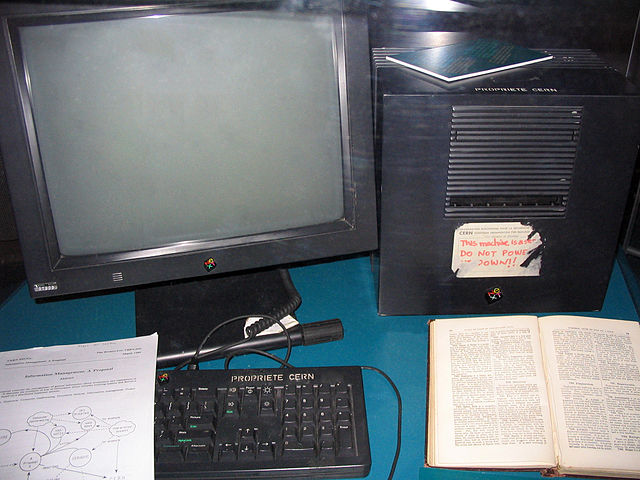
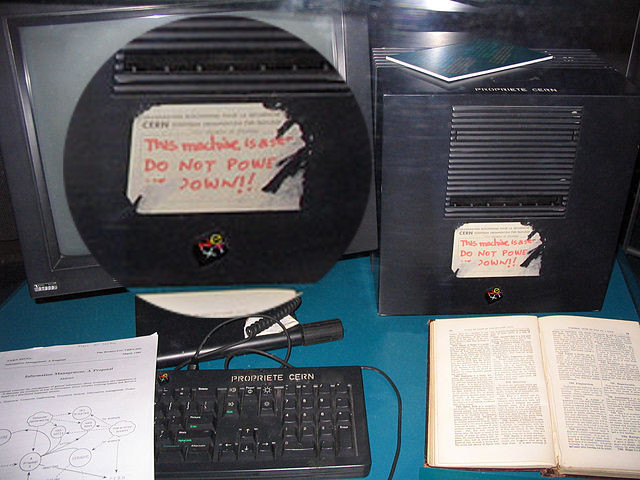
wrote ipfs article

Changed region(s): [[0.0938, 0.0312, 0.5938, 0.6875]]

diff --git a/authors/tyaakow/01-ipfs-internet/en_EN/final.md b/authors/tyaakow/01-ipfs-internet/en_EN/final.md
@@ -1,15 +1,21 @@
-Internet is broken
+### Internet is conceptually broken
 
-Internet started as huge promise of decentralization & democratization of knowledge and information, both in the consuming and in publishing sense. Before internet, one had to have a newspaper or a broadcaster (or a book publishing company) under control to get their message across to general public. The same goes for music & videos. 
-Publishing your own music & video work, and putting it before eyes & ears of global audience meant that you had to have a lot of resources. Internet changed this. Today, if one has quality content, and a tiny bit of technical expertise (or a modest investment), they can make their content accessible to anyone with internet access.
-The information has been democratized. Knowledge is widely available today. So is publishing. Today, anonymous leakers of classified political information can expect to influence the outcome of elections. Regardless of wether this or other political players have "bought" the media.
+When it started, internet was a huge promise of decentralization & democratization of knowledge and information, both in the consuming and in publishing sense. Before internet, one had to have a newspaper or a broadcaster - or a book publishing company under control to get their message across to general public. The same goes for music & videos. 
+Publishing your own music & video work, and putting it before eyes & ears of global audience meant that you had to have a lot of resources.
+
+ Internet changed this. 
+
+Today, if one has quality content, and a tiny bit of technical expertise (or a modest investment), they can make their content accessible to anyone with internet access, across the globe.
+The information has been democratized. Knowledge is widely available today. So is publishing. Today, anonymous leakers of classified political information can expect to influence the outcome of elections. Regardless of whether the mainstream media had been bought and owned by any of the parties.
 There is much greater liquidity of information than ever in history.
 
 We can say that internet has changed things for our civilization as much as Gutenberg's inventions have.
 
-But things are not as bright as they seem. With mass internet adoption came big money, and with big money, big monopolies came along.
+But things are not as bright as they seem. With mass internet adoption came big money, and with big money, along came monopolies, and centralization of user data, of control, of information.
 
-On this image is one of the first web servers, by Tim Berners-Lee, with a note: This machine is a server. Do not power down!!
+This is largely centralization by convenience, not by any compulsion, and for this, we have current internet structure to thank. We can find fault in http protocol, client-server architecture, DNS - IP based routing and content adressing.
+
+***On this image is one of the first web servers, by Tim Berners-Lee, with a note: This machine is a server. Do not power down!!***
 
 ![web server, T. Berners Lee](../images/01.jpg)
 
@@ -19,7 +25,82 @@ Internet has strayed. Turkish government has blocked access to Wikipedia in Apri
 Years 2016 and 2017 saw huge internet outages, due to DDOS attacks and data-center errors that brought big parts of the internet down.  These events showed how much we depend on single vendors, like Amazon AWS, CDN-s, DNS providers.
 We rely on content stored in particular data centers, in certain countries, behind specific internet backbones. These outages were possible due to the structure of the network. 
 
-Considering how cheap the storage is today, and how much of it sits empty on each sides of these outages, and blockades, we should have all the information available to us regardless of the part of the world we are in. 
+![Wikipedia Turkey logo](../images/02.svg)
+
+**Image above - logo of Wikipedia Turkey**
+
 Not to talk about censorships, server seizures, and similar obstacles.
 
 Our centralized model of data storage, which has been mitigated to a very small degree by CDN providers, is to blame for big wastes in bandwidth & big losses in terms of speed due to latency. If our source data center is geographically too far, we will see significant decrease in loading time / throughput speed of our connection.
+
+### We are dependent on network backbones
+
+If we are accessing a website hosted on a server on other continent, we are relying on one - or perhabs several - internet backbones for access to our website. Because content is stored centrally. Certain big internet players have redundant data centers across the globe, but this merely proves the point that internet has strayed from its mission.
+
+### We are dependent on internet hosts
+
+Our content is stored on servers by hosting / server company (cloud hosts are merely clouding this fact). If the hosting company in question, its data centers or servers go down - our content is down also. Moreover, if your host decided to take down your content - they can do that.
+
+### Our content is easy prey
+
+Under the current model, our content / resources / informations / knowledge is inherently censorable, extinguishable, and corruptible. Hackers alter and deface websites so often, it is hardly news anymore. Government censorship is also something we meet every day. [Archive.org](http://web.archive.org/) has built a kind of internet museum for previous years of internet, but we need internet more resilient to all sorts of decay.
+
+![Burning of Alexandria, by Hermann Goll, 1876](../images/03.jpg)
+
+**Image above - burning of Alexandria, Hermann Goll, 1876.**
+
+One can argue that at present point of our civilization, we shouldn't allow single (or several) points of failure for access to internet, which has become a compendium of human knowledge.
+
+### In comes the IPFS
+
+IPFS, or Inter Planetary File System is an open-source project by [Protocol Labs](https://protocol.ai/), started in 2014 by Juan Benet. IPFS concept is very innovative. Maybe closest thing we had before it came along was [Freenet](https://freenetproject.org/),  or Bittorent. IPFS is working to reinvent the internet, on protocol level.
+
+It combines technological advancements of Bittorrent, Git, cryptographic hashing, merkle trees, Kademlia DHT.. And it's aiming to thoroughly redefine how we do things online. 
+
+### IPFS decentralizes storage
+
+This means that any computer on the network can be a server. Storage is decentralized and distributed. Since things / content are not addressed by IP-s, there is no inherent need for static IP addresses. This eliminates the need for dedicated data centers, and reliance on hosting providers.
+
+### It uses content - addressing
+
+This means that content is addressed by its cryptographic hash. Content is named by its content, not by location of its server. If we compare our strayed internet model to addressing a book by physical library address, and number of shelf the book is on, IPFS goes back to naming / addressing a book by it's title.
+
+Content - addressing (by way of hashes) ensures data integrity, because if even one letter in any stored file changes, the hash is completely different. This opens up a possibility of versioning internet content similar to git commits. Reverting, transparency, immutability are all available with this model.
+
+Content-addressing means that we can have CDN-level distribution and efficacy of fetching content, because content can be distributed on hundreds or thousands of nodes all over the internet in a redundant way, that ensures we can still easily require same content regardless from WHERE we are fetching it - even if half of the internet is down. Under this system, circumventing things like Turkish Wikipedia censorship becomes child's play. Users can easily require same content from their local "swarm" of nodes inside Turkey. Any node on IPFS network, once it retrieves content (like web-site for viewing), can cache it and become trustable source of same content.
+
+### It employs Kademlia DHT  *(among other things)*
+
+IPFS uses Bittorrent-like algorithm of *Distributed Hash Table* that doesn't require any central authority for reaching any content. Kademlia algorithm allows for any content lookup to take maximum of ***O(log(n))*** hops / contacts for ***n*** number of nodes on the network. This is like maximum of 30 hops/contacts for 1,000,000,000 nodes. It is fast. It also means **no single point of failure**, **DDOS resistance** and **speed**. If our neighbor next door has some content cached / stored on his machine, we wont need to fetch it from across the planet. And we wont need to worry about data integrity.
+
+Currently, as Juan Benet explained in [his Stanford presentation](https://www.youtube.com/watch?v=HUVmypx9HGI), main work behind IPFS is not the protocol itself, and its algorithms, but rather the integration of it into existing system. For example, there is work to include IPFS content - based addressing and protocol layer into existing browsers. There is work to integrate IPFS with local file systems via [FUSE interface](https://en.wikipedia.org/wiki/Filesystem_in_Userspace) (so we wont need to use http protocol layer to access content). Majority of work is on integrating the new system into the existing one, seamlessly for end-users.
+
+### IPFS opens the way for cloud-computing as it was imagined.
+
+This means resilient, redundant, reachable on demand content with promise of high availability and low latency.. Offshoot of the project is [libp2p](https://libp2p.io/) - MIT-licensed set of libraries for swarm-based, p2p computing.
+
+It is still a work in progress, albeit highly promising. And it is not a purely theoretical mishmash. 
+From August to September this year, [largest ICO so far took place](https://www.coindesk.com/257-million-filecoin-breaks-time-record-ico-funding/), raising record-breaking $260 000 000. It was Filecoin ICO, for an application leveraging IPFS infrastructure, by Protocol Labs. To clear things up, 260 million was not all ICO-raised, uninformed money. [52 million was raised in presale, from VC-s](https://www.coindesk.com/filecoin-presale-raises-52-million-ahead-ico-launch/), who - presumably - knew what they were doing.
+
+So the project might be onto something.
+
+![OpenBazaar repos on github](../images/04.jpg)
+
+One more working product built on top of IPFS is [OpenBazaar](https://www.openbazaar.org/). For those who don't know, OpenBazaar is a pioneer where future of the internet, and internet decentralization is concerned. It is a revolutionary decentralized, p2p market which is well out of idea stage (it is at 2.0 version at time of this writing). It works, and it works pretty smooth. And it uses IPFS for storage.
+
+One more working product that is implementing IPFS is [Steemit](https://steemit.com) - which plans to use IPFS for storage.
+
+[Digix](https://digix.global/) is another blockchain-based startup / token with market cap of $130 million at the time of this writing. It builds on IPFS, among other things.
+
+[Mediachain](http://www.mediachain.io/) is another blockchain-based project using IPFS.
+
+There is Orbit - distributed, peer-to-peer chat application built on top of IPFS, and giving birth to some further new app layer on top of it - [orbit-db](https://github.com/orbitdb/orbit-db) - a "distributed peer-to-peer database for the decentralized web". You can check out Orbit [here](https://orbit.chat/#/connect).
+
+The list goes on, you can check some of the projects [here](https://github.com/ipfs/awesome-ipfs).
+
+To sum it up - crypto revolution is powering some really promising developments that are looking to redefine how we do internet, and we will cover more of these in the future.
+
+
+
+
+
